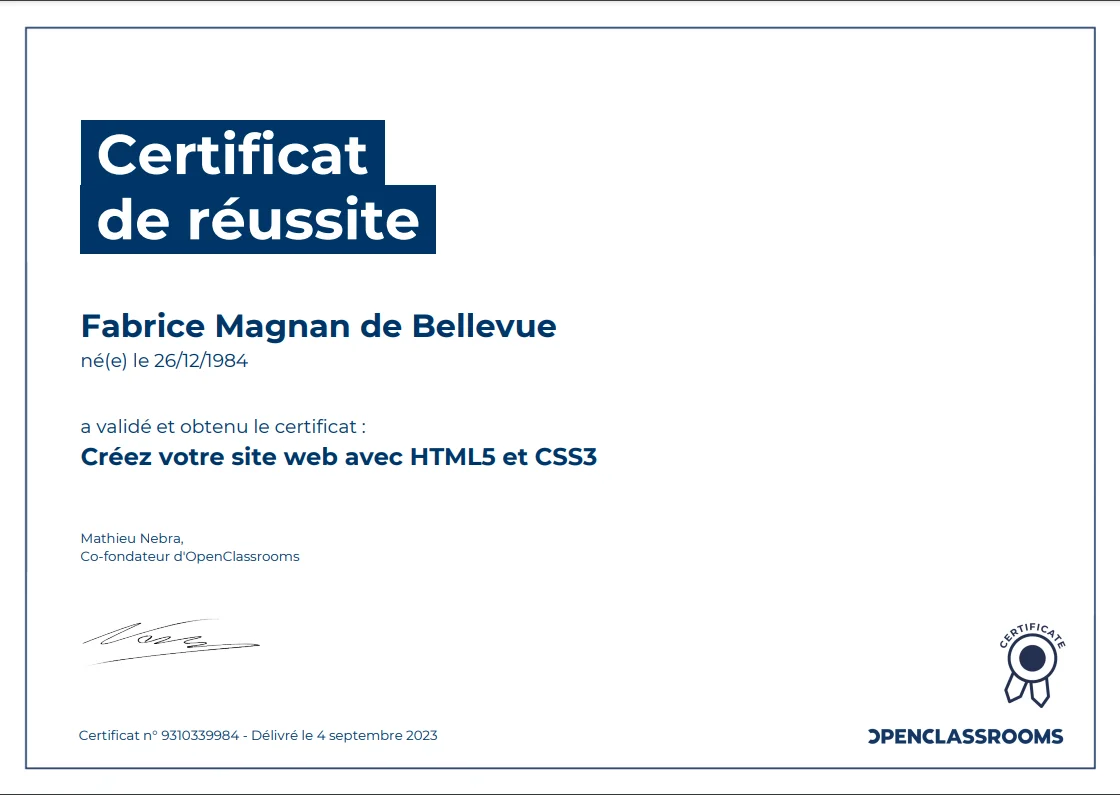
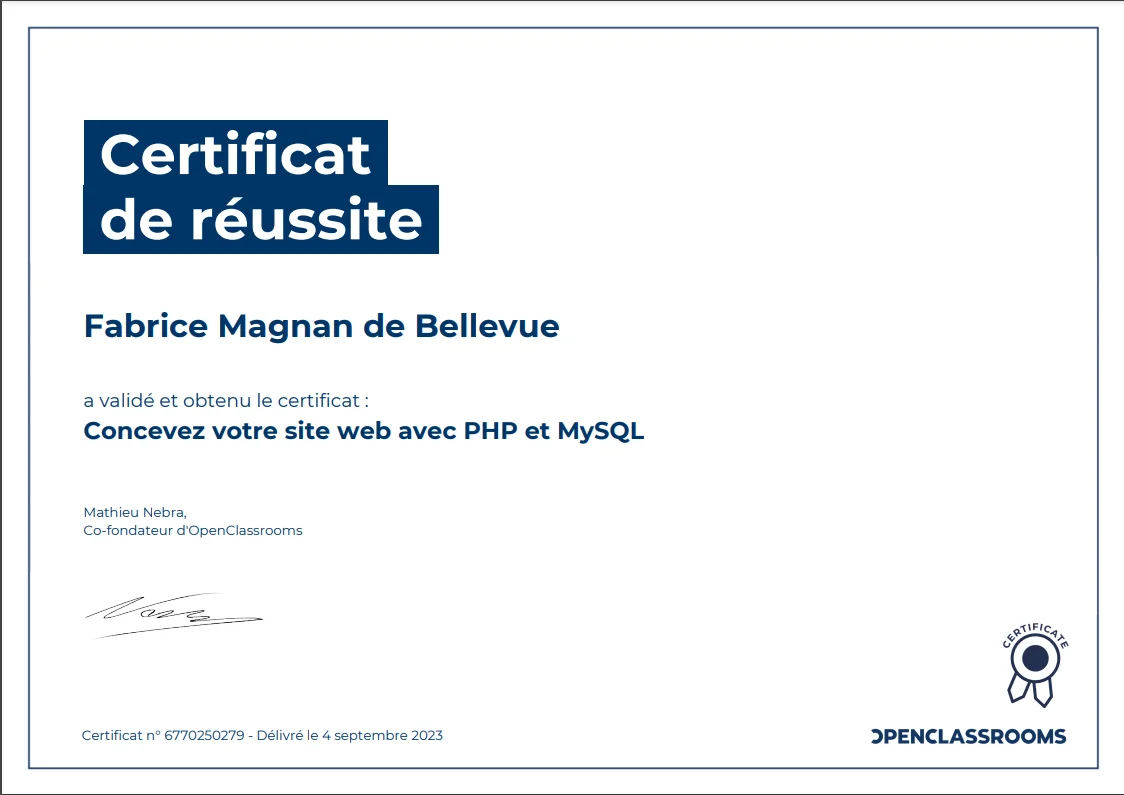
ajout tooltip titre projet + ajout certif

diff --git a/src/sass/pages/home/_projects.scss b/src/sass/pages/home/_projects.scss
@@ -43,19 +43,40 @@ $card-background: #fff;
     .formation-projects-container {
       display: flex;
       flex-direction: column;
+      position: relative;
   
+      &::after {
+        content: attr(data-tooltip); // Utilise l'attribut data-tooltip pour le contenu
+        position: absolute;
+        bottom: 94%; // Ajustez cette valeur pour positionner l'info-bulle
+        left: 50%;
+        transform: translateX(-50%) translateY(-10px); // Centrer l'info-bulle et ajuster sa position verticale
+        background-color: #1e3758;
+        color: white;
+        padding: 5px 10px;
+        border-radius: 5px;
+        font-size: 0.8rem;
+        white-space: nowrap;
+        z-index: 999;
+        opacity: 0; // Initialement invisible
+        visibility: hidden; // Initialement non visible
+        transition: opacity 0.3s, visibility 0.3s, transform 0.3s ease;
+        pointer-events: none; // Assurez-vous que l'info-bulle n'interfère pas avec d'autres interactions
+      }
+    
+      // Affiche l'info-bulle au survol du titre
+      &:hover::after {
+        opacity: 1;
+        visibility: visible;
+        transform: translateX(-50%) translateY(-20px); // Ajustez pour l'animation de l'info-bulle
+      }
+
       .section-title-container {
         display: flex;
         align-items: center;
         justify-content: center;
       }
-
-      .section-title {
-        color: $primary-color;
-        font-size: 2em;
-        margin-bottom: 2rem;
-        font-weight: 600;
-      }
+     
       .sort-buttons {
         margin-left: 10px; // Ajoutez une marge entre le titre et le bouton de tri
       }

diff --git a/src/pages/home/Projects.jsx b/src/pages/home/Projects.jsx
@@ -5,16 +5,16 @@ import FormationProject from './projet-formation/FormationProject';
 const Projects = ({ personalProjects, formationProjects }) => {
   return (
     <div className="projects-container">
-      <div className="personal-projects-container">
+      <div className="personal-projects-container" data-tooltip={`Nombre de projets réalisés : ${personalProjects.length}`}>
         <PersonalProject 
           title="Mes projets personnels"
-          projects={personalProjects} 
+          projects={personalProjects}
         />
       </div>
-      <div className="formation-projects-container">
+      <div className="formation-projects-container" data-tooltip={`Nombre de projets réalisés : ${formationProjects.length}`}>
         <FormationProject 
           title="Mes projets de formation"
-          projects={formationProjects} 
+          projects={formationProjects}
         />
       </div>            
     </div>

diff --git a/src/assets/images-certif-formation.js b/src/assets/images-certif-formation.js
@@ -1,9 +1,19 @@
 import viewc1 from "./img/certificat_formation/viewcertif1.webp";
 import viewc2 from "./img/certificat_formation/viewcertif2.webp";
+import viewc3 from "./img/certificat_formation/viewcertif3.webp";
+import viewc4 from "./img/certificat_formation/viewcertif4.webp";
+import viewc5 from "./img/certificat_formation/viewcertif5.webp";
+import viewc6 from "./img/certificat_formation/viewcertif6.webp";
+import viewc7 from "./img/certificat_formation/viewcertif7.webp";
 
 const imagesCertifFormation = {
     "viewcertif1.webp": viewc1,
     "viewcertif2.webp": viewc2,
+    "viewcertif3.webp": viewc3,
+    "viewcertif4.webp": viewc4,
+    "viewcertif5.webp": viewc5,
+    "viewcertif6.webp": viewc6,
+    "viewcertif7.webp": viewc7,
 };
 
 export default imagesCertifFormation;

diff --git a/src/pages/home/skill/Skills.jsx b/src/pages/home/skill/Skills.jsx
@@ -73,8 +73,10 @@ const Skills = () => {
 
   return (
     <>
-      <h2 className="skills-section__section-title" id="skills">Mes Compétences</h2>
-      <FaFilter className="skills-section__filter-reset" onClick={handleFilterReset} title="Réinitialiser le filtre"/>
+      <div className="skills-section__title-container">
+        <h2 className="skills-section__section-title" id="skills">Mes Compétences</h2>
+        <FaFilter className="skills-section__filter-reset" onClick={handleFilterReset} title="Réinitialiser le filtre"/>
+      </div>
       <div className="skills-section__skill-container">
         {['Frontend', 'Backend', 'Base de Données', 'Gestion de Projets', 'Versioning'].map(category => (
           <div key={category} className="skills-section__skills-group">

diff --git a/src/sass/pages/home/_skills.scss b/src/sass/pages/home/_skills.scss
@@ -11,10 +11,21 @@
   box-shadow: 0 4px 6px rgba(0, 0, 0, 0.1);
   max-width: 80%;
 
-  .skills-section__section-title {
-    color: #1e3758;
-    font-size: 2.0em;
-    margin-bottom: 1.5rem;
+  .skills-section__title-container {
+    display: flex;
+    justify-content: center;
+    align-items: center;
+    width: 100%;
+
+    .skills-section__section-title {      
+      color: #1e3758;
+      font-size: 2.0em;
+      margin-right: 10px;
+    }
+
+    .skills-section__filter-reset {
+      cursor: pointer;
+    }
   }
 
   .skills-section__skill-container {

diff --git a/src/pages/home/projet-formation/FormationProject.jsx b/src/pages/home/projet-formation/FormationProject.jsx
@@ -55,7 +55,7 @@ const FormationProject = ({ projects, title }) => {
   return (
     <>
       <div className="section-title-container">
-        <h2 className="section-title">{title}</h2>
+      <h2 className="section-title">{title}</h2>
         <div className="sort-buttons">
           <button className="icon-button" onClick={toggleOrder} title={isAscOrder ? 'Tri croissant' : 'Tri décroissant'}>
             <TbArrowsDownUp />

diff --git a/src/pages/home/projet-perso/PersonalProject.jsx b/src/pages/home/projet-perso/PersonalProject.jsx
@@ -1,7 +1,7 @@
 import PropTypes from 'prop-types';
 import PersonalProjectCard from './PersonalProjectCard'; // Assurez-vous d'ajuster le chemin d'importation
 
-const PersonalProject = ({ title, projects }) => {
+const PersonalProject = ({ title, projects  }) => {
   return (
     <>
       <div className="section-title-container">
